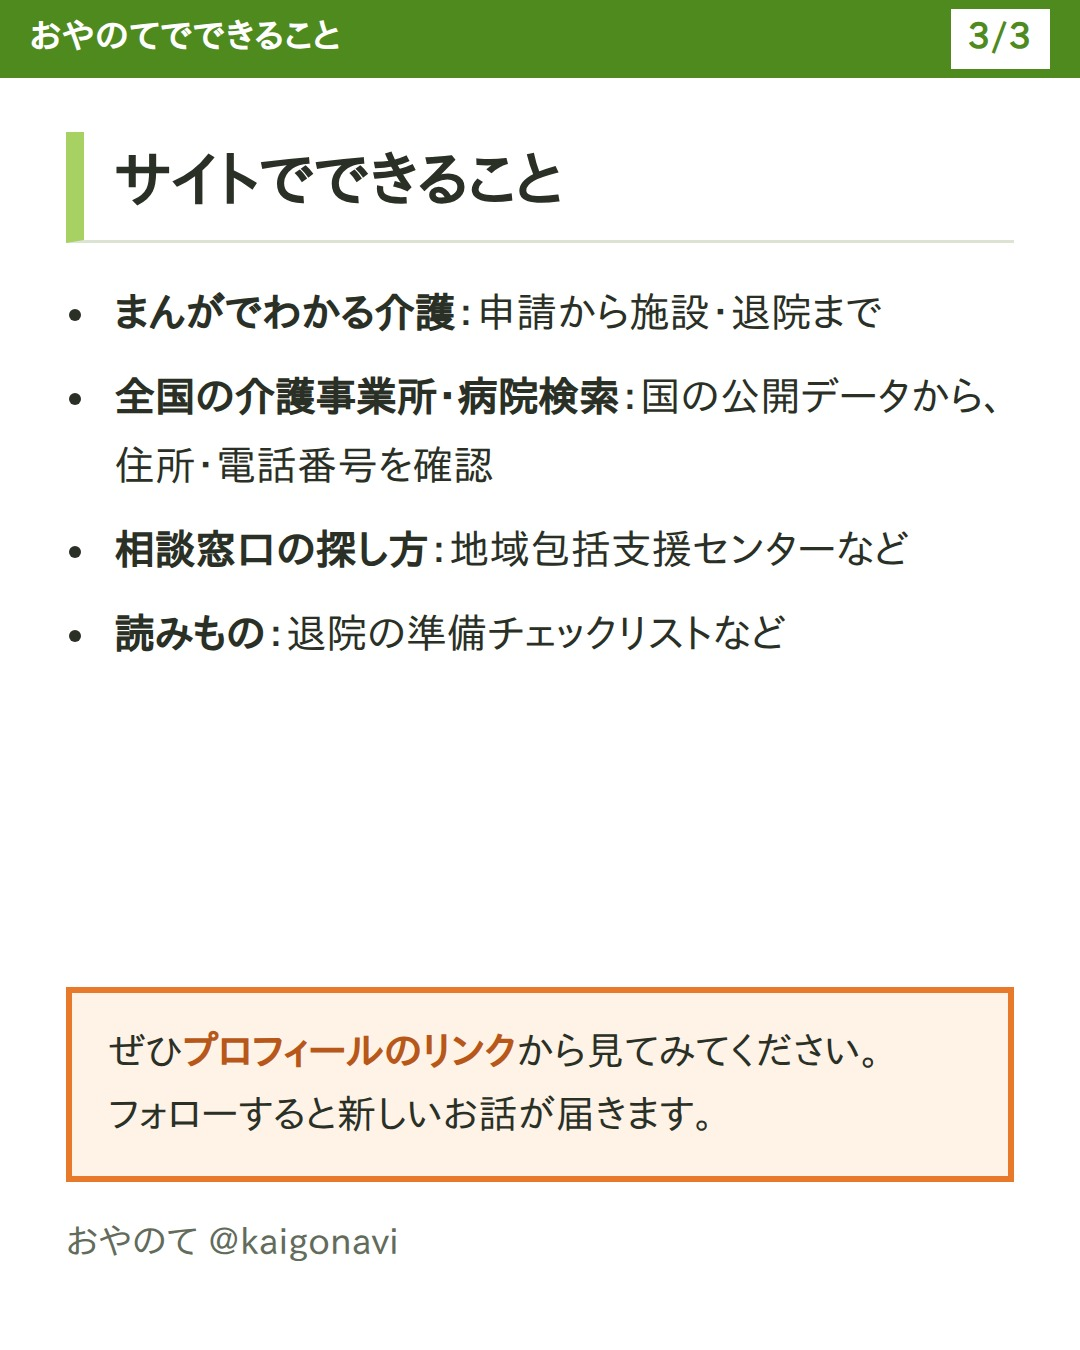
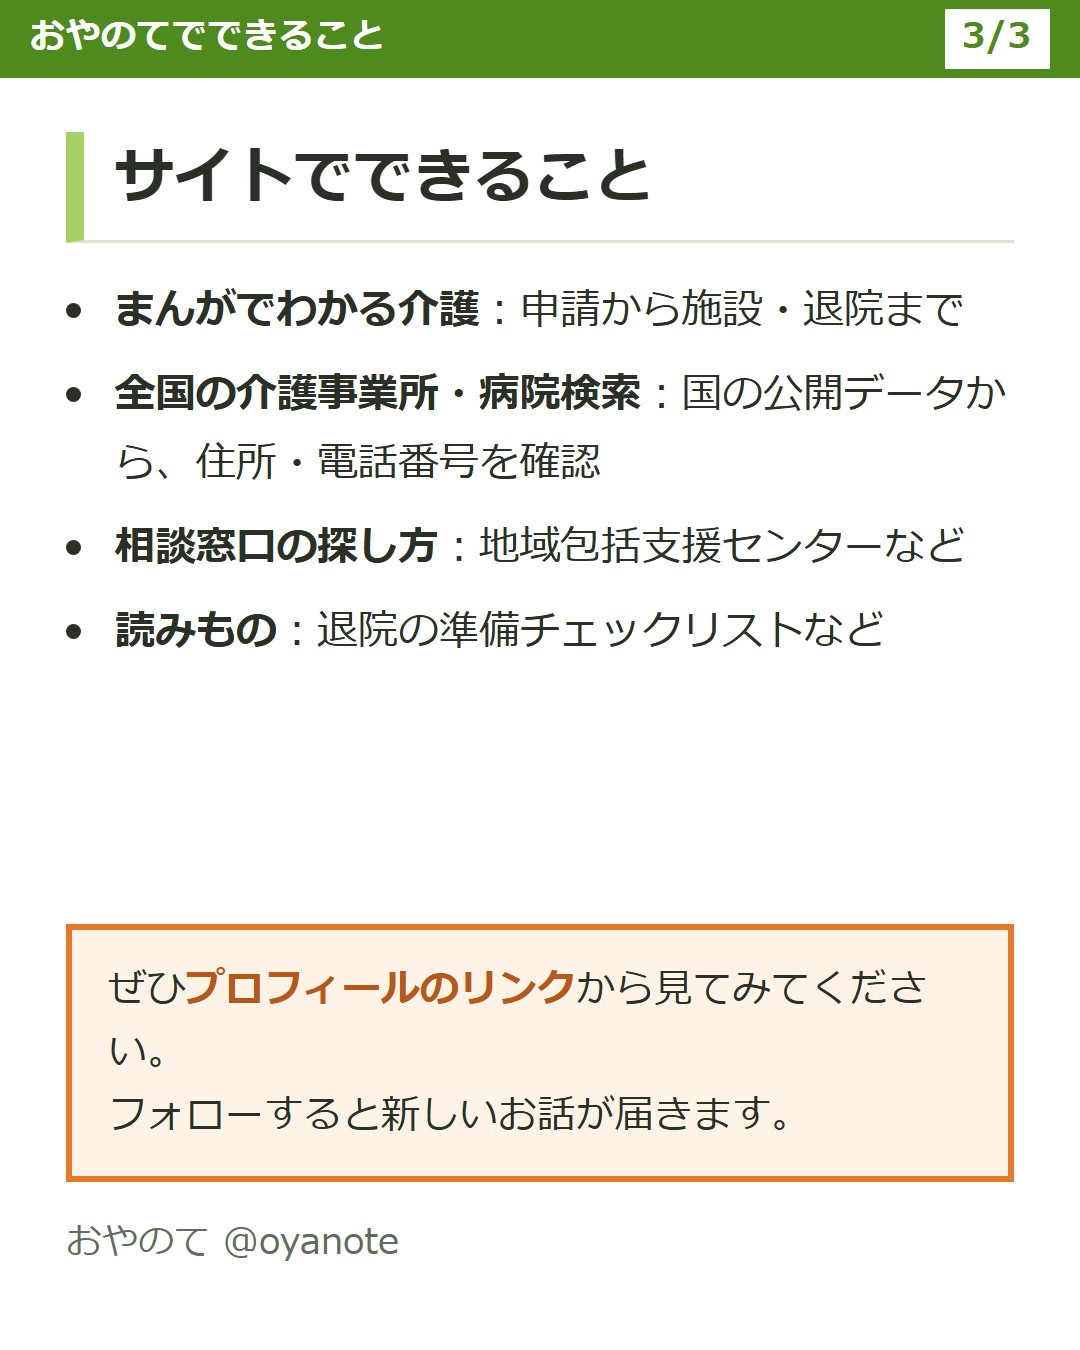
おやのての名称監査・漫画とInstagram自動化
* Unify Instagram handle and strengthen sitemap validation

* Preserve source file line endings

* Normalize source files to repository format

* Schedule weekly manga and automate Instagram handoff

diff --git a/scripts/make-video.py b/scripts/make-video.py
@@ -7,7 +7,7 @@ for ep in sorted({os.path.basename(f).split("-")[0] for f in glob.glob("frames/e
     fs = sorted(glob.glob(f"frames/{ep}-*.png"))
     durs = [2.5] + [4.5] * (len(fs) - 2) + [5.0]
     T = 0.4
-    cmd = ["ffmpeg", "-y", "-loglevel", "error"]
+    cmd = [os.environ.get("FFMPEG", "ffmpeg"), "-y", "-loglevel", "error"]
     for f, d in zip(fs, durs):
         cmd += ["-loop", "1", "-t", str(d + T), "-i", f]
     cmd += ["-f", "lavfi", "-t", str(sum(durs) + T), "-i", "anullsrc=r=44100:cl=stereo"]

diff --git a/README.md b/README.md
@@ -9,7 +9,7 @@
 | `index.html` | トップ：利用開始までの流れ、都道府県別の入り口、困りごと別の連絡先 |
 | `search.html` | 全国の介護事業所・病院検索（都道府県・市区町村・サービス種類・キーワード・現在地から近い順） |
 | `area/〇〇/〇〇〇〇〇.html` | 市区町村ごとの事業所一覧ページ（ビルド時に自動生成。Google検索向け） |
-| `manga.html` | まんがでわかる介護（全4話。`npm run manga` で `scripts/make-manga.mjs` から生成） |
+| `manga.html` | まんがでわかる介護（現在7話。`npm run manga` で `scripts/make-manga.mjs` から生成） |
 | `yomimono/` | 読みもの（記事）。`content/articles.mjs` を直して `npm run articles` で作り直す |
 | `yougo.html` | 介護・医療の用語集（`content/glossary.mjs`） |
 | `seido.html` | 介護保険のしくみ |
@@ -48,7 +48,11 @@ Google検索に出すには、[Google Search Console](https://search.google.com/
 
 ## インスタ投稿の自動作成
 
-`.github/workflows/daily-instagram.yml` が毎朝（日本時間 6:43）、読みもの・用語集からその日の投稿（1080×1350 の画像と投稿文）を作り、`sns-auto` ブランチの日付フォルダに置きます。原稿は Atelier の「自動作成された投稿」にも送ります（Secrets の `ATELIER_*`）。順番の確認は `node scripts/make-daily-post.mjs --list`。
+`.github/workflows/daily-instagram.yml` が毎朝（日本時間 6:43）、読みもの・用語集からその日の投稿（1080×1350 の画像と投稿文）を作り、`sns-auto` ブランチの日付フォルダに置きます。日曜日は、その日に公開されたまんがの画像と投稿文を使います。順番の確認は `node scripts/make-daily-post.mjs --list`。投稿の推奨時刻は日本時間 10:00 です。
+
+`content/manga-queue.mjs` に用意した7題は、`.github/workflows/weekly-manga.yml` が2026年10月18日から毎週日曜日03:00（日本時間）に1話ずつ公開します。画像・動画は続けて `refresh-sns.yml` で生成します。用意した題材が尽きたら自動生成は止まるため、内容を確認した新しい題材をキューに追加してください。
+
+Instagram @oyanote への登録は、Codex の「おやのて Instagram 毎日1件」定期実行が Metricool 連携を使い、`sns-auto` の画像と投稿文を確認してから行います。登録時は自動公開を指定し、同日の重複予約を避けます。GitHub Actions だけでは Metricool への投稿は行いません。
 
 ## Claude の作業通知
 

diff --git a/docs/foundation-checklist.md b/docs/foundation-checklist.md
@@ -19,7 +19,7 @@
 - [ ] トップ・読みもの・主要な地域ページのURL検査。サイトマップ送信だけでは検索掲載は保証されない。
 - [x] 管理者アカウントのGA4プロパティで測定ID G-Z1JQW02KGJ の一致と過去48時間のデータ受信を確認。リアルタイムの新規アクセス検証は未確認。
 - [x] GA4のサイト内検索・フォーム操作・履歴変更によるページビューを無効化。URLクエリパラメータ q, query, search, search_term をデータ除去対象に設定。個別の送信ペイロード検証は未確認。
-- [ ] 既存チラシのInstagram @kaigonavi が実際の所有・運用アカウントか確認。
+- [ ] Instagramのユーザー提供画像では @oyanote。既存の配布素材・公開済み投稿の表記は引き続き確認する。
 - [ ] 公開チラシを実際に印刷しQRコードを読み取る（広島市版は広島市の地域ページへ）。
 - [ ] スマホ実機で、本文・表・メニュー・検索・文字拡大・PDFの開き方を確認。
 - [ ] 全医療・制度記事の根拠と改定情報を個別に再確認。自動テストは内容の医学的・制度的正確性を保証しない。
